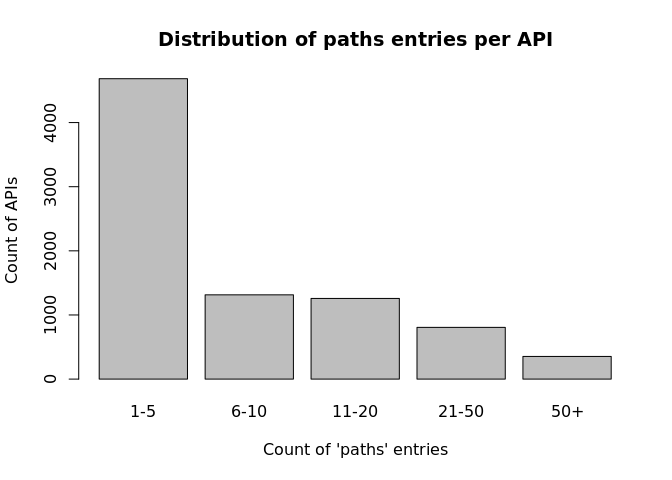
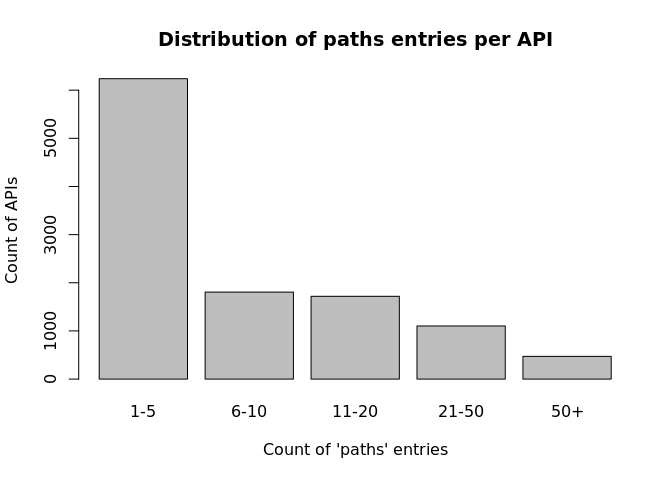
Updated reports (automated)

diff --git a/R/oas_paths.html b/R/oas_paths.html
@@ -619,11 +619,11 @@ used in APIs?</h2>
 <ul>
 <li>The average number of path per API is 11.2, ranging from 1 to
 271.</li>
-<li>Out of the 8,415 APIs with a path, 4,684 (55.7%) have 1-5 paths,
-1,314 (15.6%) have 6-10 paths, 1,258 (14.9%) have 11-20 paths, 806
-(9.6%) have 21-50 paths, and 353 (0.0419489%) have over 50 paths.</li>
+<li>Out of the 11,337 APIs with a path, 6,238 (55%) have 1-5 paths,
+1,806 (15.9%) have 6-10 paths, 1,719 (15.2%) have 11-20 paths, 1,103
+(9.7%) have 21-50 paths, and 471 (0.04154538%) have over 50 paths.</li>
 </ul>
[2 lines of base64/hex data omitted]
 
 </body>
 </html>

diff --git a/R/oas_validity.html b/R/oas_validity.html
@@ -614,14 +614,14 @@ not quote or disseminate.</em></sup></p>
 <h3 id="how-many-valid-openapis-do-we-have"><em>How many valid OpenAPIs
 do we have?</em></h3>
 <ul>
-<li>Out of 11,247 entries, 8,654 (76.9%) are valid and 2,593 (23.1%) are
-invalid</li>
-<li>3,170 out of the 4,087 Swagger (v2.x) entries are valid (77.6%)</li>
-<li>5,484 out of the 7,160 OpenAPI (v3.x) entries are valid (76.6%)</li>
+<li>Out of 15,249 entries, 11,754 (77.1%) are valid and 3,495 (22.9%)
+are invalid</li>
+<li>4,540 out of the 5,819 Swagger (v2.x) entries are valid (78%)</li>
+<li>7,214 out of the 9,430 OpenAPI (v3.x) entries are valid (76.5%)</li>
 </ul>
 <p><em>Further analysis is in progress to understand what are the common
 causes of errors.</em></p>
[2 lines of base64/hex data omitted]
 <h2 id="recommendations">Recommendations</h2>
 <ul>
 <li>Further investigate and analyze common source of errors</li>

diff --git a/R/oas_summary.html b/R/oas_summary.html
@@ -624,7 +624,7 @@ selected topics.</p>
 errors</h2>
 <h3 id="how-many-valid-openapis-do-we-have">How many valid OpenAPIs do
 we have?</h3>
-<p>Out of 11,247 APIs, 8,654 (76.9%) are valid.</p>
+<p>Out of 15,249 APIs, 11,754 (77.1%) are valid.</p>
 <p>See <a href="oas_validity.md">validity analysis</a> for further
 details.</p>
 <h3 id="what-are-the-primary-sources-of-error-in-apis">What are the
@@ -634,18 +634,18 @@ primary sources of error in APIs?</h3>
 <h3 id="how-is-the-server-property-used-in-apis">How is the server
 property used in APIs?</h3>
 <ul>
-<li>Out of 8,654 valid APIs, 4,382 (50.6%) have a <code>servers</code>
+<li>Out of 11,754 valid APIs, 5,817 (49.5%) have a <code>servers</code>
 property, with an average of 1.3 server/entry, and a range of 0-14.</li>
 </ul>
 <h3 id="how-often-do-apis-use-localhost-vs-domain-based-servers">How
 often do APIs use localhost vs domain based servers?</h3>
 <ul>
-<li>Out of the 5,697 server entries (across all APIs), 1,224 (21.5%)
-contain localhost or 127.0.0.1, and 3,768 (66.1%) use a domain based
-name. 493 (8.7%) use a relative path (no server, just starting with /),
+<li>Out of the 7,594 server entries (across all APIs), 1,762 (23.2%)
+contain localhost or 127.0.0.1, and 4,945 (65.1%) use a domain based
+name. 599 (7.9%) use a relative path (no server, just starting with /),
 and the residuals entries are not categorized.</li>
-<li>1,730 (30.4%) use an <a href="http://">http://</a> protocol, and
-3,213 (56.4%) <a href="https://">https://</a>.</li>
+<li>2,362 (31.1%) use an <a href="http://">http://</a> protocol, and
+4,286 (56.4%) <a href="https://">https://</a>.</li>
 <li><em>@TODO: compute API level statistics (localhost vs DNS vs
 mixed)</em></li>
 </ul>
@@ -655,9 +655,9 @@ used in APIs?</h3>
 <ul>
 <li>The average number of path per API is 11.2, ranging from 1 to
 271.</li>
-<li>Out of the 8,415 APIs with a path, 4,684 (55.7%) have 1-5 paths,
-1,314 (15.6%) have 6-10 paths, 1,258 (14.9%) have 11-20 paths, 806
-(9.6%) have 21-50 paths, and 353 (0.0419489%) have over 50 paths.</li>
+<li>Out of the 11,337 APIs with a path, 6,238 (55%) have 1-5 paths,
+1,806 (15.9%) have 6-10 paths, 1,719 (15.2%) have 11-20 paths, 1,103
+(9.7%) have 21-50 paths, and 471 (0.04154538%) have over 50 paths.</li>
 </ul>
 <p>See <a href="oas_paths.md">paths analysis</a> for further
 details.</p>
@@ -666,31 +666,31 @@ details.</p>
 is average number of locally defined JSON objects per API?</h3>
 <ul>
 <li>The average number of JSON objects defined locally under
-/definitions (Swagger) or /components/schema (OpenAPI) is 20.8, ranging
+/definitions (Swagger) or /components/schema (OpenAPI) is 21.8, ranging
 from 1 to 642.</li>
-<li>Out of the 7,153 APIs, 2,916 (40.8%) have 1-5 entries, 1,320 (18.5%)
-have 6-10 entries, 1,135 (15.9%) have 11-20 entries, 997 (13.9%) have
-21-50 entries, and 785 (11%) have over 50 entries.</li>
+<li>Out of the 9,677 APIs, 3,958 (40.9%) have 1-5 entries, 1,743 (18%)
+have 6-10 entries, 1,465 (15.1%) have 11-20 entries, 1,372 (14.2%) have
+21-50 entries, and 1,139 (11.8%) have over 50 entries.</li>
 </ul>
 <h2 id="licensing">Licensing</h2>
 <h3 id="how-is-the-license-property-used-in-apis">How is the license
 property used in APIs?</h3>
 <ul>
-<li>Out of 8,654 valid APIs, 2,966 (34.3%) have a <code>license</code>
-property, with 2,656 (30.7%) providing both the <code>name</code> and
+<li>Out of 11,754 valid APIs, 3,920 (33.4%) have a <code>license</code>
+property, with 3,504 (29.8%) providing both the <code>name</code> and
 <code>url</code>.</li>
-<li>Out of the 74 v3.1 APIs with a license, 5 (6.8%) use the
+<li>Out of the 86 v3.1 APIs with a license, 5 (5.8%) use the
 <code>identifier</code> property (introduced in 3.1).</li>
 </ul>
 <h3 id="what-is-the-breakdown-of-licenses-use-by-the-apis">What is the
 breakdown of licenses use by the APIs?</h3>
 <ul>
 <li>Analysis based on a simple harmonization method looking at terms in
-the license name and url values indicates that 1,504 (50.7%) of the APIs
+the license name and url values indicates that 2,002 (51.1%) of the APIs
 use an Apache license.</li>
-<li>Other notable categories include MIT (16.9%), Creative Commons
-(7.8%), GNU/GPL (4.7%).</li>
-<li>12.4% are categorized as Other.</li>
+<li>Other notable categories include MIT (16.2%), Creative Commons
+(8.5%), GNU/GPL (4.7%).</li>
+<li>12.8% are categorized as Other.</li>
 </ul>
 <h2 id="security">Security</h2>
 <h3 id="how-are-the-security-related-properties-used-in-apis">How are
@@ -700,18 +700,18 @@ was renamed to <code>securitySchemes</code> and moved inside
 <code>components</code>, and the <code>type: basic</code> was replaced
 with <code>type: http</code> with <code>scheme: basic</code>.</em></p>
 <ul>
-<li><p>Out of 8,654 valid APIs, 1,635 (18.9%) have a
+<li><p>Out of 11,754 valid APIs, 2,284 (19.4%) have a
 <code>security</code> property.</p></li>
-<li><p>For Swagger (v2.x), out of the 3,170 valid APIs, 1,329 (41.9%)
-have a <code>securityDefinitions</code> property. The <code>type</code>
-is distributed as 916 (44.7%) oauth2, 882 (43%) apiKey, and 252 (12.3%)
+<li><p>For Swagger (v2.x), out of the 4,540 valid APIs, 1,905 (42%) have
+a <code>securityDefinitions</code> property. The <code>type</code> is
+distributed as 1,322 (45.8%) apiKey, 1,244 (43.1%) oauth2, and 318 (11%)
 basic.</p></li>
-<li><p>For OpenAPI (v3.x), out of the 5,484 valid APIs, 2,338 (42.6%)
+<li><p>For OpenAPI (v3.x), out of the 7,214 valid APIs, 3,095 (42.9%)
 have a <code>components/securitySchemes</code> property. The
-<code>type</code> is distributed as 1,246 (39.1%) apiKey, 1,041 (32.7%)
-http, 834 (26.2%) oauth2, 26 (0.8%) openIdConnect, and 40 (1.3%) empty
+<code>type</code> is distributed as 1,643 (38.7%) apiKey, 1,448 (34.1%)
+http, 1,066 (25.1%) oauth2, 34 (0.8%) openIdConnect, and 52 (1.2%) empty
 value.</p></li>
-<li><p>As only 565 (17.8%) of v2.x and 1,070 (19.5%) of v3.x APIs have a
+<li><p>As only 816 (18%) of v2.x and 1,468 (20.3%) of v3.x APIs have a
 <code>security</code> property, it suggest that the security schemes may
 not always be used. This requires further investigation.</p></li>
 </ul>

diff --git a/R/test.html b/R/test.html
@@ -603,20 +603,20 @@ padding-top: 0px;
 
 <h1 id="test">Test</h1>
 <ul>
-<li><p>Out of 8,654 valid APIs, 1,635 (18.9%) have a
+<li><p>Out of 11,754 valid APIs, 2,284 (19.4%) have a
 <code>security</code> property.</p></li>
-<li><p>For Swagger (v2.x), out of the 3,170 valid APIs, 1,329 (41.9%)
-have a <code>securityDefinitions</code> property. The <code>type</code>
-is distributed as 916 (44.7%) oauth2, 882 (43%) apiKey, and 252 (12.3%)
+<li><p>For Swagger (v2.x), out of the 4,540 valid APIs, 1,905 (42%) have
+a <code>securityDefinitions</code> property. The <code>type</code> is
+distributed as 1,322 (45.8%) apiKey, 1,244 (43.1%) oauth2, and 318 (11%)
 basic.</p></li>
-<li><p>For OpenAPI (v3.x), out of the 5,484 valid APIs, 2,338 (42.6%)
+<li><p>For OpenAPI (v3.x), out of the 7,214 valid APIs, 3,095 (42.9%)
 have a <code>components/securitySchemes</code> property. The
-<code>type</code> is distributed as 1,246 (39.1%) apiKey, 1,041 (32.7%)
-http, 834 (26.2%) oauth2, 26 (0.8%) openIdConnect, and 40 (1.3%) empty
+<code>type</code> is distributed as 1,643 (38.7%) apiKey, 1,448 (34.1%)
+http, 1,066 (25.1%) oauth2, 34 (0.8%) openIdConnect, and 52 (1.2%) empty
 value.</p></li>
-<li><p>As only 565 (17.8 %) of v2.x and 1,070 (19.5 %) of v3.x APIs have
-a <code>security</code> property, it suggest that the security schemes
-may not always be used. This requires further investigation.</p></li>
+<li><p>As only 816 (18 %) of v2.x and 1,468 (20.3 %) of v3.x APIs have a
+<code>security</code> property, it suggest that the security schemes may
+not always be used. This requires further investigation.</p></li>
 </ul>
 
 </body>

diff --git a/R/oas_summary.md b/R/oas_summary.md
@@ -24,7 +24,7 @@ selected topics.
 
 ### How many valid OpenAPIs do we have?
 
-Out of 11,247 APIs, 8,654 (76.9%) are valid.
+Out of 15,249 APIs, 11,754 (77.1%) are valid.
 
 See [validity analysis](oas_validity.md) for further details.
 
@@ -36,16 +36,16 @@ See [validity analysis](oas_validity.md) for further details.
 
 ### How is the server property used in APIs?
 
-- Out of 8,654 valid APIs, 4,382 (50.6%) have a `servers` property, with
-  an average of 1.3 server/entry, and a range of 0-14.
+- Out of 11,754 valid APIs, 5,817 (49.5%) have a `servers` property,
+  with an average of 1.3 server/entry, and a range of 0-14.
 
 ### How often do APIs use localhost vs domain based servers?
 
-- Out of the 5,697 server entries (across all APIs), 1,224 (21.5%)
-  contain localhost or 127.0.0.1, and 3,768 (66.1%) use a domain based
-  name. 493 (8.7%) use a relative path (no server, just starting with
+- Out of the 7,594 server entries (across all APIs), 1,762 (23.2%)
+  contain localhost or 127.0.0.1, and 4,945 (65.1%) use a domain based
+  name. 599 (7.9%) use a relative path (no server, just starting with
   /), and the residuals entries are not categorized.
-- 1,730 (30.4%) use an <http://> protocol, and 3,213 (56.4%) <https://>.
+- 2,362 (31.1%) use an <http://> protocol, and 4,286 (56.4%) <https://>.
 - *@TODO: compute API level statistics (localhost vs DNS vs mixed)*
 
 ## Paths
@@ -53,9 +53,9 @@ See [validity analysis](oas_validity.md) for further details.
 ### How is the path property used in APIs?
 
 - The average number of path per API is 11.2, ranging from 1 to 271.
-- Out of the 8,415 APIs with a path, 4,684 (55.7%) have 1-5 paths, 1,314
-  (15.6%) have 6-10 paths, 1,258 (14.9%) have 11-20 paths, 806 (9.6%)
-  have 21-50 paths, and 353 (0.0419489%) have over 50 paths.
+- Out of the 11,337 APIs with a path, 6,238 (55%) have 1-5 paths, 1,806
+  (15.9%) have 6-10 paths, 1,719 (15.2%) have 11-20 paths, 1,103 (9.7%)
+  have 21-50 paths, and 471 (0.04154538%) have over 50 paths.
 
 See [paths analysis](oas_paths.md) for further details.
 
@@ -64,29 +64,29 @@ See [paths analysis](oas_paths.md) for further details.
 ### What is average number of locally defined JSON objects per API?
 
 - The average number of JSON objects defined locally under /definitions
-  (Swagger) or /components/schema (OpenAPI) is 20.8, ranging from 1 to
+  (Swagger) or /components/schema (OpenAPI) is 21.8, ranging from 1 to
   642.
-- Out of the 7,153 APIs, 2,916 (40.8%) have 1-5 entries, 1,320 (18.5%)
-  have 6-10 entries, 1,135 (15.9%) have 11-20 entries, 997 (13.9%) have
-  21-50 entries, and 785 (11%) have over 50 entries.
+- Out of the 9,677 APIs, 3,958 (40.9%) have 1-5 entries, 1,743 (18%)
+  have 6-10 entries, 1,465 (15.1%) have 11-20 entries, 1,372 (14.2%)
+  have 21-50 entries, and 1,139 (11.8%) have over 50 entries.
 
 ## Licensing
 
 ### How is the license property used in APIs?
 
-- Out of 8,654 valid APIs, 2,966 (34.3%) have a `license` property, with
-  2,656 (30.7%) providing both the `name` and `url`.
-- Out of the 74 v3.1 APIs with a license, 5 (6.8%) use the `identifier`
+- Out of 11,754 valid APIs, 3,920 (33.4%) have a `license` property,
+  with 3,504 (29.8%) providing both the `name` and `url`.
+- Out of the 86 v3.1 APIs with a license, 5 (5.8%) use the `identifier`
   property (introduced in 3.1).
 
 ### What is the breakdown of licenses use by the APIs?
 
 - Analysis based on a simple harmonization method looking at terms in
-  the license name and url values indicates that 1,504 (50.7%) of the
+  the license name and url values indicates that 2,002 (51.1%) of the
   APIs use an Apache license.
-- Other notable categories include MIT (16.9%), Creative Commons (7.8%),
+- Other notable categories include MIT (16.2%), Creative Commons (8.5%),
   GNU/GPL (4.7%).
-- 12.4% are categorized as Other.
+- 12.8% are categorized as Other.
 
 ## Security
 
@@ -96,18 +96,18 @@ See [paths analysis](oas_paths.md) for further details.
 `securitySchemes` and moved inside `components`, and the `type: basic`
 was replaced with `type: http` with `scheme: basic`.*
 
-- Out of 8,654 valid APIs, 1,635 (18.9%) have a `security` property.
+- Out of 11,754 valid APIs, 2,284 (19.4%) have a `security` property.
 
-- For Swagger (v2.x), out of the 3,170 valid APIs, 1,329 (41.9%) have a
-  `securityDefinitions` property. The `type` is distributed as 916
-  (44.7%) oauth2, 882 (43%) apiKey, and 252 (12.3%) basic.
+- For Swagger (v2.x), out of the 4,540 valid APIs, 1,905 (42%) have a
+  `securityDefinitions` property. The `type` is distributed as 1,322
+  (45.8%) apiKey, 1,244 (43.1%) oauth2, and 318 (11%) basic.
 
-- For OpenAPI (v3.x), out of the 5,484 valid APIs, 2,338 (42.6%) have a
+- For OpenAPI (v3.x), out of the 7,214 valid APIs, 3,095 (42.9%) have a
   `components/securitySchemes` property. The `type` is distributed as
-  1,246 (39.1%) apiKey, 1,041 (32.7%) http, 834 (26.2%) oauth2, 26
-  (0.8%) openIdConnect, and 40 (1.3%) empty value.
+  1,643 (38.7%) apiKey, 1,448 (34.1%) http, 1,066 (25.1%) oauth2, 34
+  (0.8%) openIdConnect, and 52 (1.2%) empty value.
 
-- As only 565 (17.8%) of v2.x and 1,070 (19.5%) of v3.x APIs have a
+- As only 816 (18%) of v2.x and 1,468 (20.3%) of v3.x APIs have a
   `security` property, it suggest that the security schemes may not
   always be used. This requires further investigation.
 

diff --git a/R/test.md b/R/test.md
@@ -1,17 +1,17 @@
 Test
 ================
 
-- Out of 8,654 valid APIs, 1,635 (18.9%) have a `security` property.
+- Out of 11,754 valid APIs, 2,284 (19.4%) have a `security` property.
 
-- For Swagger (v2.x), out of the 3,170 valid APIs, 1,329 (41.9%) have a
-  `securityDefinitions` property. The `type` is distributed as 916
-  (44.7%) oauth2, 882 (43%) apiKey, and 252 (12.3%) basic.
+- For Swagger (v2.x), out of the 4,540 valid APIs, 1,905 (42%) have a
+  `securityDefinitions` property. The `type` is distributed as 1,322
+  (45.8%) apiKey, 1,244 (43.1%) oauth2, and 318 (11%) basic.
 
-- For OpenAPI (v3.x), out of the 5,484 valid APIs, 2,338 (42.6%) have a
+- For OpenAPI (v3.x), out of the 7,214 valid APIs, 3,095 (42.9%) have a
   `components/securitySchemes` property. The `type` is distributed as
-  1,246 (39.1%) apiKey, 1,041 (32.7%) http, 834 (26.2%) oauth2, 26
-  (0.8%) openIdConnect, and 40 (1.3%) empty value.
+  1,643 (38.7%) apiKey, 1,448 (34.1%) http, 1,066 (25.1%) oauth2, 34
+  (0.8%) openIdConnect, and 52 (1.2%) empty value.
 
-- As only 565 (17.8 %) of v2.x and 1,070 (19.5 %) of v3.x APIs have a
+- As only 816 (18 %) of v2.x and 1,468 (20.3 %) of v3.x APIs have a
   `security` property, it suggest that the security schemes may not
   always be used. This requires further investigation.

diff --git a/R/oas_paths.md b/R/oas_paths.md
@@ -16,8 +16,8 @@ quote or disseminate.*</sup>
 ## How is the path property used in APIs?
 
 - The average number of path per API is 11.2, ranging from 1 to 271.
-- Out of the 8,415 APIs with a path, 4,684 (55.7%) have 1-5 paths, 1,314
-  (15.6%) have 6-10 paths, 1,258 (14.9%) have 11-20 paths, 806 (9.6%)
-  have 21-50 paths, and 353 (0.0419489%) have over 50 paths.
+- Out of the 11,337 APIs with a path, 6,238 (55%) have 1-5 paths, 1,806
+  (15.9%) have 6-10 paths, 1,719 (15.2%) have 11-20 paths, 1,103 (9.7%)
+  have 21-50 paths, and 471 (0.04154538%) have over 50 paths.
 
 ![](oas_paths_files/figure-gfm/oas_paths_buckets_barplot-1.png)<!-- -->

diff --git a/R/oas_validity.md b/R/oas_validity.md
@@ -12,10 +12,10 @@ quote or disseminate.*</sup>
 
 ### *How many valid OpenAPIs do we have?*
 
-- Out of 11,247 entries, 8,654 (76.9%) are valid and 2,593 (23.1%) are
+- Out of 15,249 entries, 11,754 (77.1%) are valid and 3,495 (22.9%) are
   invalid
-- 3,170 out of the 4,087 Swagger (v2.x) entries are valid (77.6%)
-- 5,484 out of the 7,160 OpenAPI (v3.x) entries are valid (76.6%)
+- 4,540 out of the 5,819 Swagger (v2.x) entries are valid (78%)
+- 7,214 out of the 9,430 OpenAPI (v3.x) entries are valid (76.5%)
 
 *Further analysis is in progress to understand what are the common
 causes of errors.*
